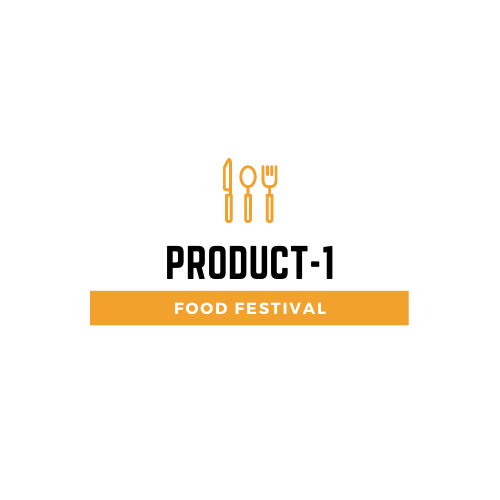
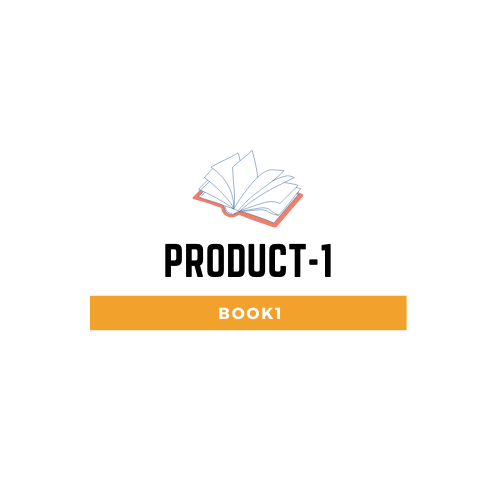
update readme and book.

Changed region(s): [[0.18, 0.48, 0.84, 0.66], [0.39, 0.3, 0.6, 0.45]]

diff --git a/public/js/app.js b/public/js/app.js
@@ -2005,9 +2005,9 @@ __webpack_require__.r(__webpack_exports__);
     var _this = this;
 
     axios__WEBPACK_IMPORTED_MODULE_0___default.a.get("api/v1/products").then(function (res) {
-      var self = _this; // console.log(res);
-      // console.log(res.data.data);
-
+      var self = _this;
+      console.log(res);
+      console.log(res.data.data);
       self.apidata = res.data.data;
     })["catch"](function (err) {
       console.error(err);
@@ -38000,7 +38000,10 @@ var render = function() {
           [
             _c("img", {
               staticClass: "card-img-top",
-              attrs: { src: "images/PRODUCT-1.png", alt: "Card image cap" }
+              attrs: {
+                src: "images/" + data.product_image.image_name,
+                alt: "Card image cap"
+              }
             }),
             _vm._v(" "),
             _c("div", { staticClass: "card-body" }, [

diff --git a/resources/js/components/BookComponent.vue b/resources/js/components/BookComponent.vue
@@ -9,7 +9,7 @@
       >
         <img
           class="card-img-top"
-          src="images/PRODUCT-1.png"
+          :src="'images/' + data.product_image.image_name"
           alt="Card image cap"
         />
 
@@ -48,8 +48,8 @@ export default {
       .get("api/v1/products")
       .then((res) => {
         let self = this;
-        // console.log(res);
-        // console.log(res.data.data);
+        console.log(res);
+        console.log(res.data.data);
         self.apidata = res.data.data;
       })
       .catch((err) => {

diff --git a/database/seeds/ProductImagesSeeder.php b/database/seeds/ProductImagesSeeder.php
@@ -1,0 +1,38 @@
+<?php
+
+use Illuminate\Database\Seeder;
+
+use App\ProductImage;
+
+class ProductImagesSeeder extends Seeder
+{
+    /**
+     * Run the database seeds.
+     *
+     * @return void
+     */
+    public function run()
+    {
+        $products = [
+            [
+                'image_name' => 'PRODUCT-1.png',
+                'image_path' => 'images',
+                'products_id' => 1
+            ],
+            [
+                'image_name' => 'PRODUCT-2.png',
+                'image_path' => 'images',
+                'products_id' => 2
+            ],
+            [
+                'image_name' => 'PRODUCT-3.png',
+                'image_path' => 'images',
+                'products_id' => 3
+            ],
+        ];
+
+        foreach ($products as $key => $value) {
+            ProductImage::create($value);
+        }
+    }
+}

diff --git a/app/Books.php b/app/Books.php
@@ -10,10 +10,17 @@ class Books extends Model
     protected $fillable = [
         'name', 'description', 'price', 'products_sort_id'
     ];
-    protected $with = ['sort'];
 
-    public function sort()
+    // protected $with = ['sort'];
+    // public function sort()
+    // {
+    //     return $this->hasOne('App\ProductSort', 'id', 'products_sort_id');
+    // }
+
+    protected $with = ['productImage'];
+    public function productImage()
     {
-        return $this->hasOne('App\ProductSort', 'id', 'products_sort_id');
+        // return $this->hasOne('App\Phone', 'foreign_key', 'local_key');
+        return $this->hasOne('App\ProductImage', 'id', 'id');
     }
 }

diff --git a/app/Http/Controllers/Api/BooksController.php b/app/Http/Controllers/Api/BooksController.php
@@ -6,12 +6,19 @@ use App\Http\Controllers\Controller;
 use Illuminate\Http\Request;
 
 use App\Books;
+use App\ProductImage;
 
 class BooksController extends Controller
 {
     public function index()
     {
         $products = Books::all();
+
+        // foreach ($products as $key => $value) {
+        //     echo $value->name . "\n";
+        //     echo $value->productImage->image_name . "\n";
+        // };
+
         return $this->response(200, 'data read success.', $products);
     }
 

diff --git a/database/seeds/DatabaseSeeder.php b/database/seeds/DatabaseSeeder.php
@@ -17,6 +17,7 @@ class DatabaseSeeder extends Seeder
             MemberSeeder::class,
             ProductsSeeder::class,
             ProductsSortSeeder::class,
+            ProductImagesSeeder::class
         ]);
     }
 }

diff --git a/app/ProductImage.php b/app/ProductImage.php
@@ -1,0 +1,10 @@
+<?php
+
+namespace App;
+
+use Illuminate\Database\Eloquent\Model;
+
+class ProductImage extends Model
+{
+    protected $table = 'product_images';
+}

diff --git a/README.md b/README.md
@@ -24,10 +24,9 @@ try SOLID、Test、RESTApi in shopCart
 
 ## Api
 use Postman
-註冊測試:
--   POST /api/v1/member/registed/{type} (type:email or general)
-登入測試
--   POST /api/v1/member/login (測試帳號:abc@mail.com;密碼:12345678)
+
+-   註冊測試: POST /api/v1/member/registed/{type} (type:email or general)
+-   登入測試:POST /api/v1/member/login (測試帳號:test01@example.com;密碼:password123)
 
 ## Admin
 
